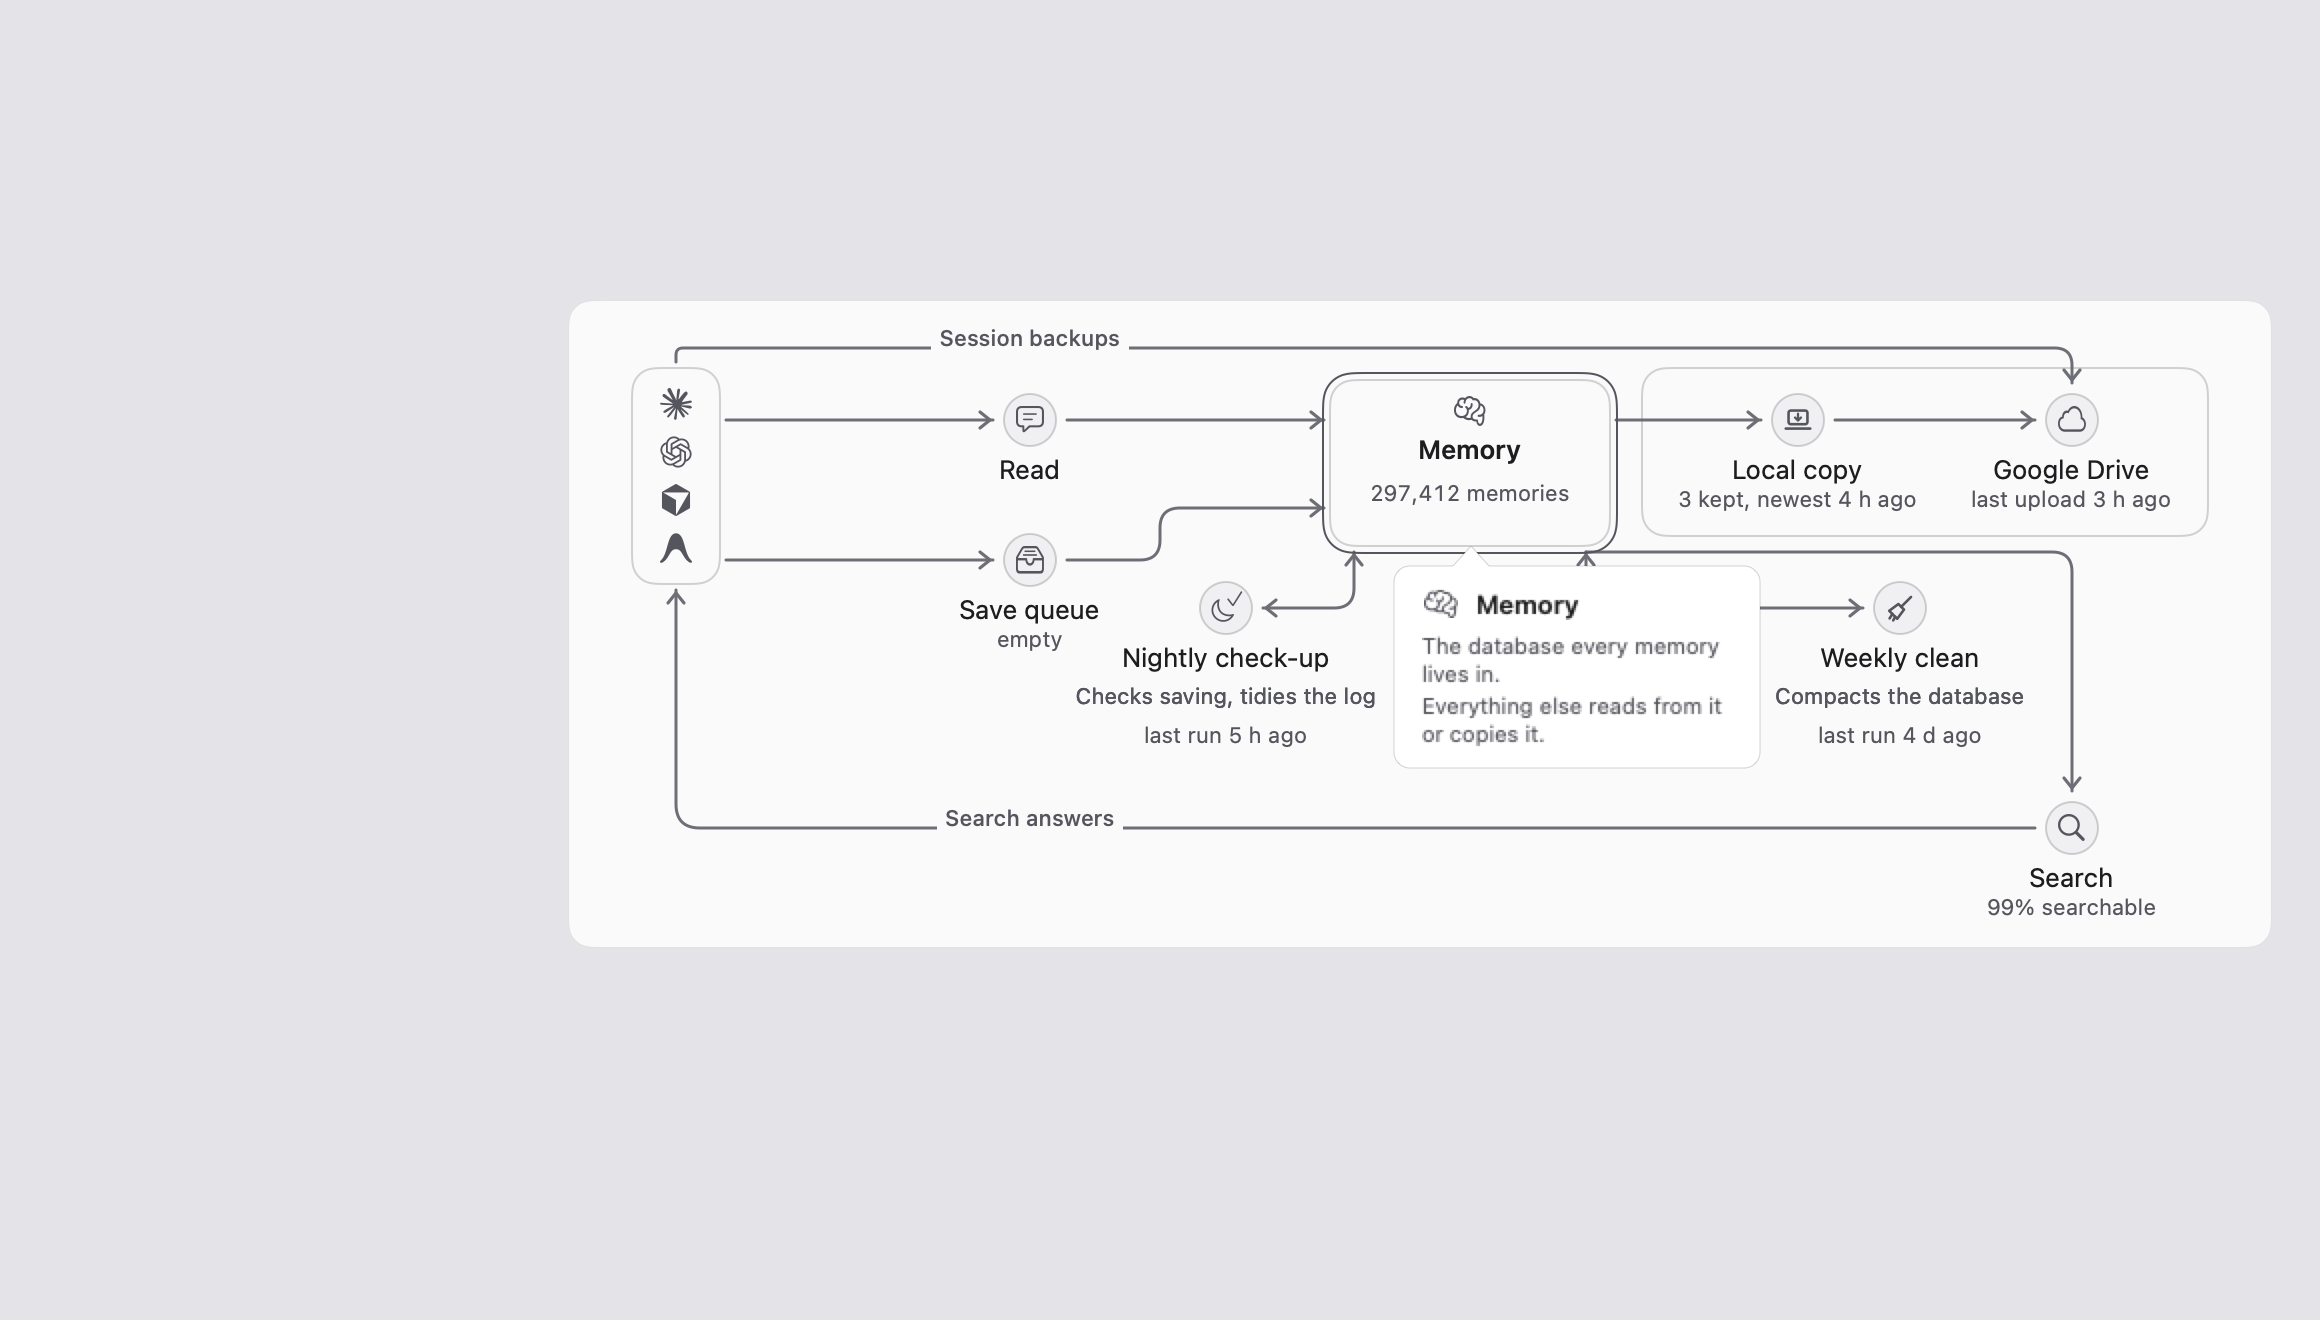
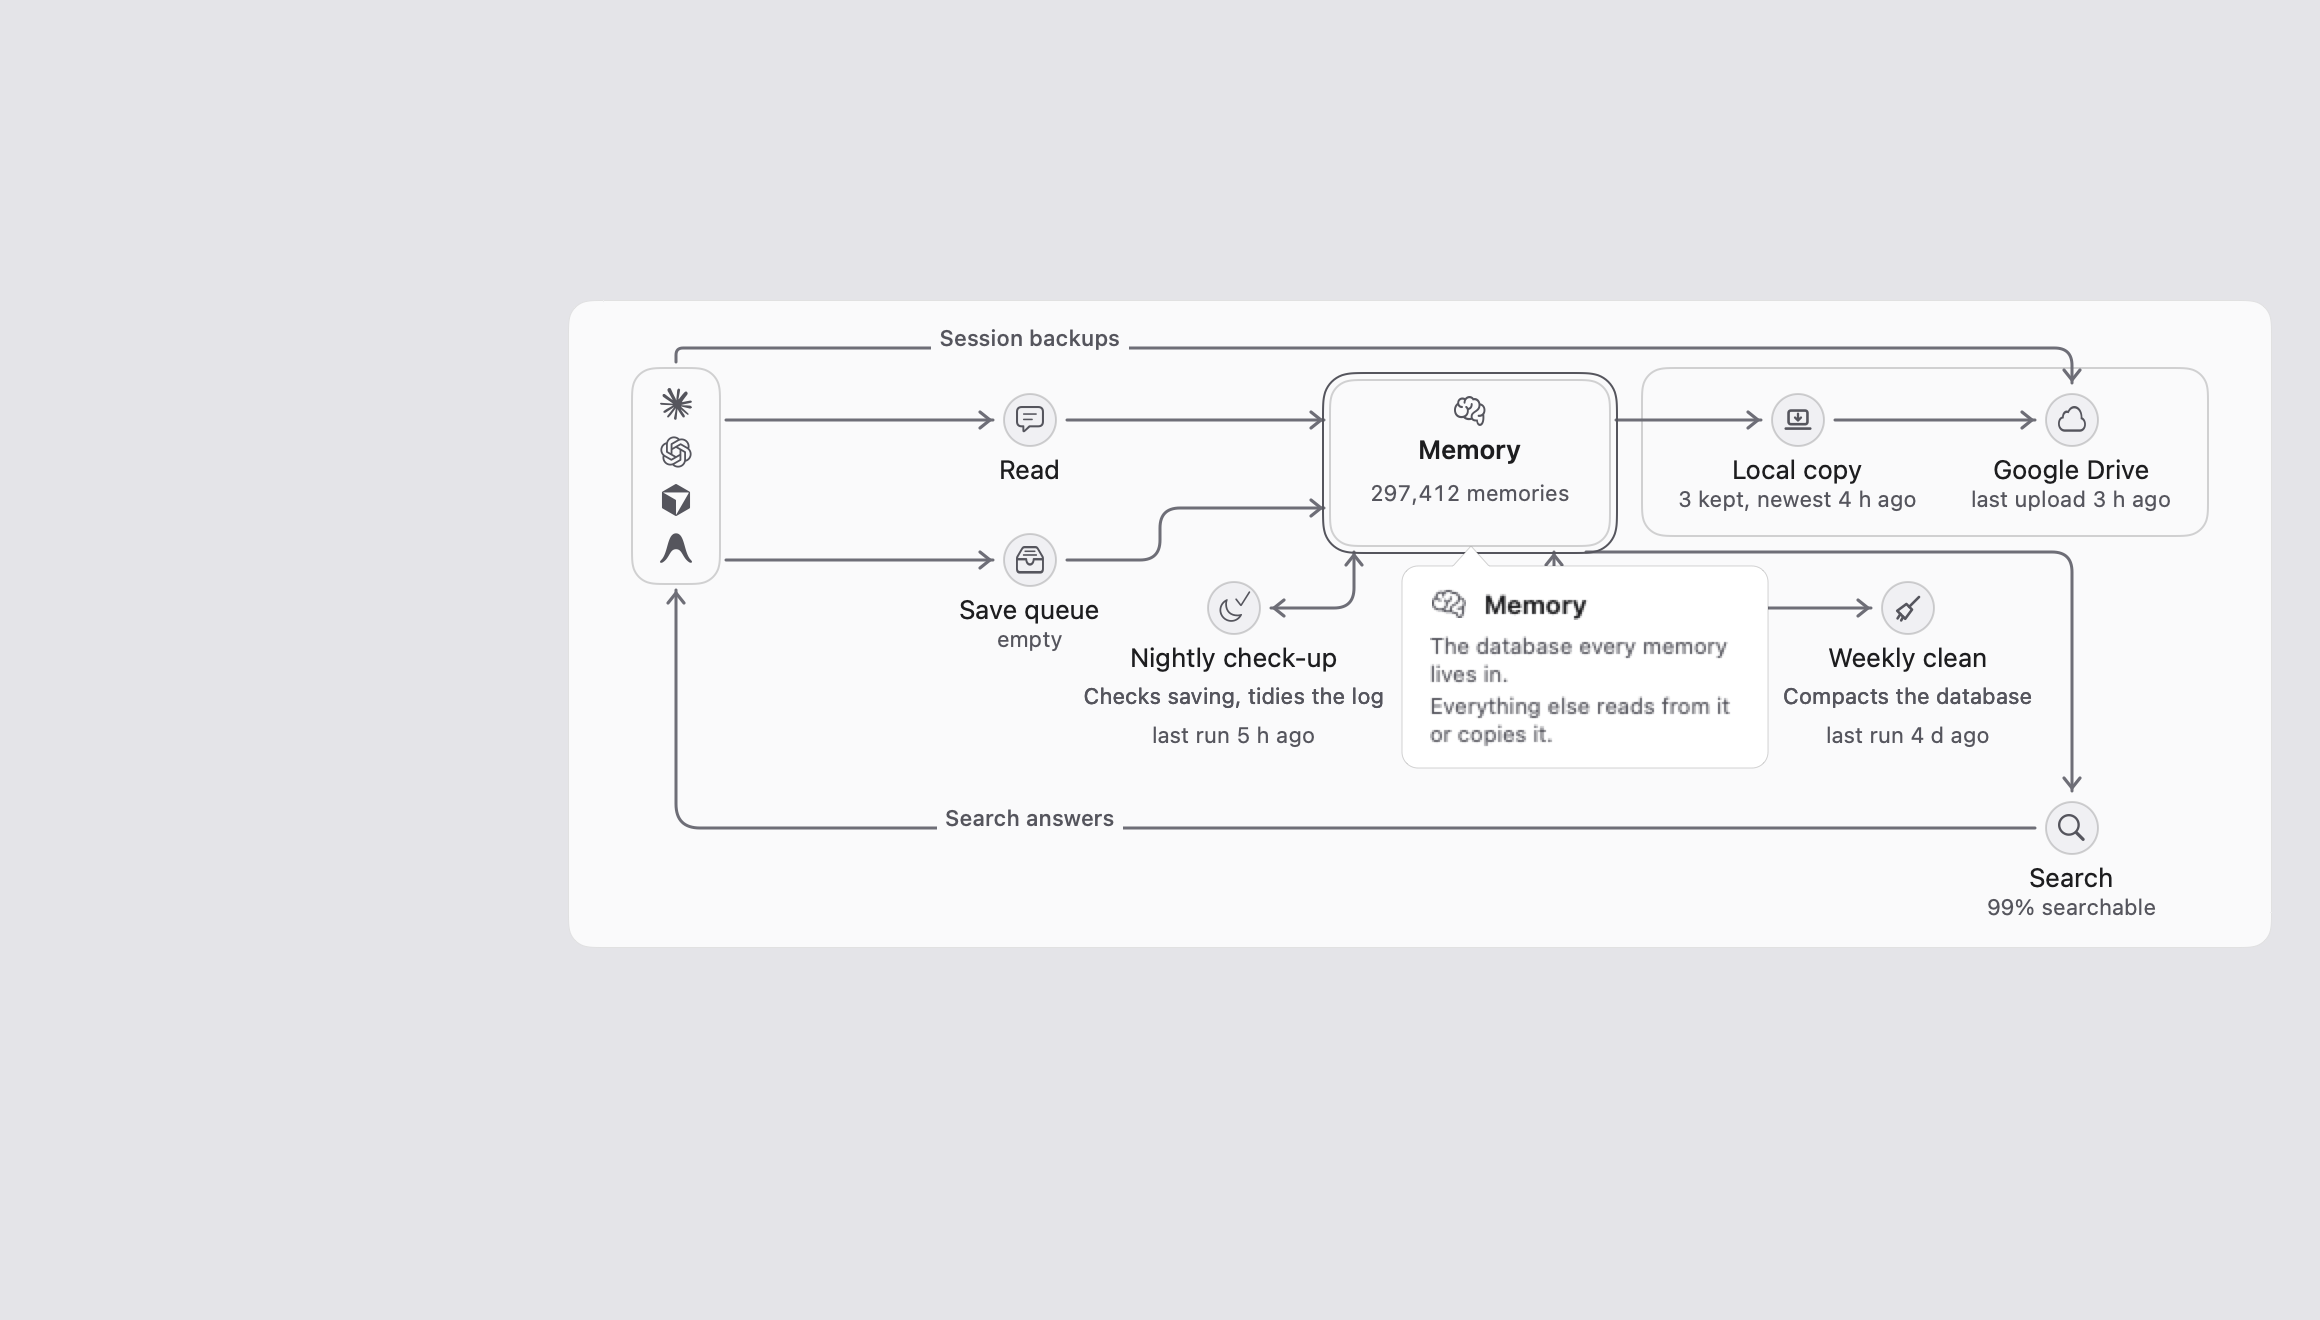
Pipeline station clearance and complete hover proof

Changed region(s): [[0.4655, 0.4348, 0.7448, 0.5591], [0.7759, 0.4348, 0.869, 0.5591]]

diff --git a/proof/pipeline-space/README.md b/proof/pipeline-space/README.md
@@ -1,22 +1,26 @@
-# Compact Pipeline: offscreen before and after
+# Compact Pipeline and station clearance
 
-Invented design fixtures rendered through NDRenderHarness at 2x, in dark and light appearances. Static offscreen proof only; native interaction and installed acceptance remain separate. No installed application, production database, production socket, or personal screenshot was used.
+The Pipeline card shrinks from 353 to 304 pt, the calm window from 791 to 742 pt, and the Drive-fault window from 841 to 792 pt. Every bubble keeps 4 pt from other station icons and words.
 
-Before source: `ce9086e9bcf7cee722be6dbf6fb7bd1ec240f516`. After source: `bfb05d571bf2b8f31c0db81f773b38356f8a2a03`.
+Invented fixtures rendered offscreen through NDRenderHarness at 2x in dark and light appearances. No installed application, production database, production socket, real logs or personal screenshot was used.
 
-`before/` and `after/` contain the same ten states: whole calm Overview, Memory/Nightly/Weekly hovers, and whole Drive-fault Overview, each in both themes. `wide/` adds six after-only views of Local copy, Drive fault, and Read lag to show the widened column layout. All 26 images were opened for inspection and are fully opaque; no transparent margins needed cropping.
+Before source: `ce9086e9bcf7cee722be6dbf6fb7bd1ec240f516`. After source: `62976c7f8750067b1b17de5d219d089351ade17f`.
 
-| Measurement (pt) | Before | After |
+`before/` retains the original ten pictures. `after/` refreshes those ten and adds Agents, Save queue, Read, Search calm and Search fault bubbles in both themes. `wide/` refreshes Local copy, Drive fault and Read lag in both themes. All 36 opaque PNGs were opened for inspection; no transparent margin needed cropping.
+
+| Measurement (pt) | Original main | After |
 | --- | ---: | ---: |
-| Whole calm Overview | 791 | 742 |
-| Whole Drive-fault Overview | 841 | 792 |
+| Calm Overview window | 791 | 742 |
+| Drive-fault Overview window | 841 | 792 |
 | Pipeline chart | 345 | 296 |
-| Pipeline card, including 4 pt padding on each side | 353 | 304 |
+| Pipeline card | 353 | 304 |
+| Job horizontal distance | 186 | 337 |
 | Lowest job words to return caption | 81 | 32 |
-| Job station horizontal distance | 186 | 337 |
-| Upper station row y | 44 | 44 |
-| Activity-to-Pipeline gap token | 0 | 0 |
+| Station row y | 44 | 44 |
+| Activity gap token | 0 | 0 |
 
-The card and both measured windows shrink by 49 pt. Memory opens below at the measured gap between the job words, with 4 pt clearance. The widened Local copy, Drive and Read bodies arrange the same title, explanation, facts and action in columns. Normal-width bodies keep the existing stack and 14/10 pt padding. The wide variant uses 14/8 pt padding; fonts and 18 pt rows stay the same. Kept-safe dimensions and text spacing, diagram side insets, purpose lines, notch targets and connector endpoint gaps remain checked.
+Memory remains below between the spread jobs. Every bubble clears other station icons and drawn words by 4 pt; bodies also clear the Kept-safe one-point outline by 4 pt, including half its stroke width. Agents also clears the return caption. The Weekly port into Memory is 16 pt inward from the Memory-to-Search port. Both jobs move 4 pt right to clear the Save queue notch, preserving their 337 pt separation. Search uses a 5 pt compact action gap instead of 8 pt. The three-column wide layout remains; the wide vertical inset is 5.5 pt instead of 8 pt so the longest 59 pt body fits above the frame without adding height. Fonts, 18 pt fact rows, normal stacked bodies, text and action labels remain unchanged.
 
-The original three behavior guards failed on the before source (351 assertions). Three further guards for the original positions/gap, smaller windows and below-Memory pocket failed on the first PR head c419e273 (93 assertions). The final source passes 53 focused Swift tests, 17 Python checks including R31, and 13 private heartbeat cases. Both products built. Claude review, CI and installed proof remain pending; local CodeRabbit produced no completed verdict within its bounded runs.
+Five round-two guards failed at bfb05d57 with 608 assertions, covering measured station margins, screen-fit margins, oversized margins, frame clearance and separate ports. Existing Agents-caption and trimmed-link guards also ran red at 916257ce (23 assertions) before correction. The final verification uses 57 explicit safe method selectors. Final source: 57 focused Swift tests, 17 Python checks including R31, 13/13 private producer-to-queue-to-production-Swift-reader cases pass. Both products built.
+
+The local Claude review at bfb05d57 found one blocking margin defect; these are the round-two corrections. Final lead verification, CI and installed acceptance remain separate and pending.
